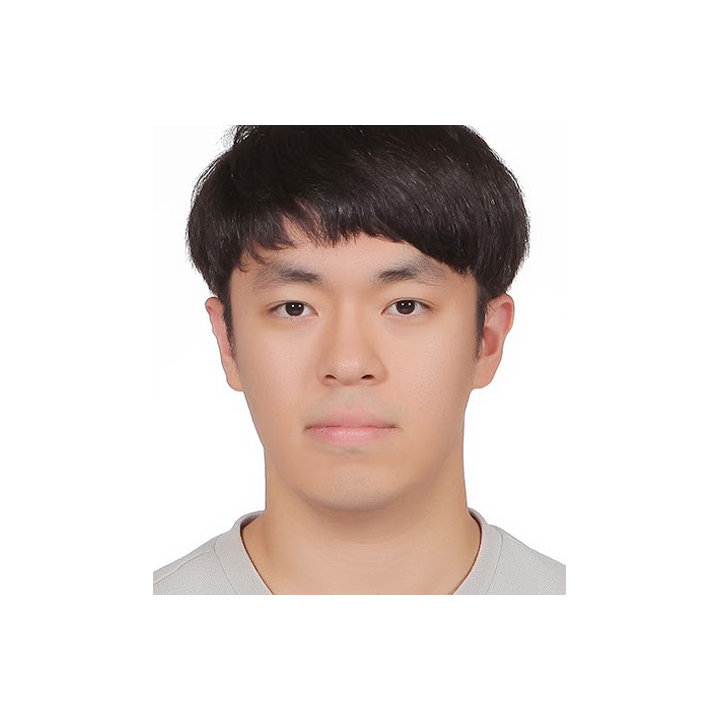
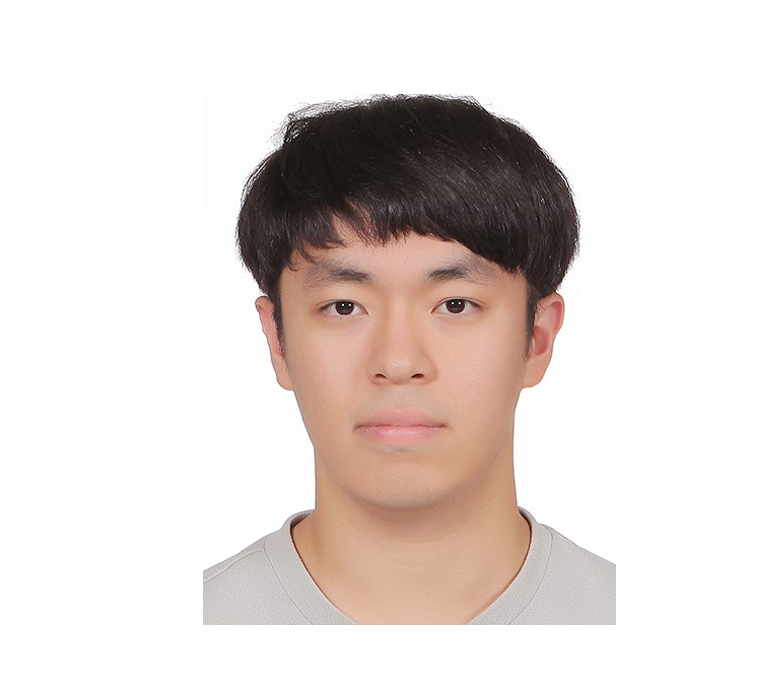
Use owner-provided edited portrait unchanged

Changed region(s): [[0.2139, 0.1209, 0.825, 0.9065], [0.6111, 0.3022, 0.6417, 0.3324], [0.4889, 0.2115, 0.5194, 0.2417]]

diff --git a/_layouts/homepage.html b/_layouts/homepage.html
@@ -47,7 +47,7 @@
       <header>
         
         {% if site.avatar %}
-        <span class="image avatar"><img src="{{ site.avatar }}" alt="Jinhyeok Kim" width="720" height="720" /></span>
+        <span class="image avatar"><img src="{{ site.avatar }}" alt="Jinhyeok Kim" width="770" height="695" /></span>
         {% endif %}
 
         <h1>{{ site.title }}</h1>

diff --git a/README.md b/README.md
@@ -9,8 +9,8 @@ Built from [Minimal Light](https://github.com/yaoyao-liu/minimal-light) by Yaoya
 - `_config.yml`: profile, contact links, theme settings.
 - `index.md`: biography, research interests, news, education, experience.
 - `_data/publications.yml`: publications and Paper / Project / Model / Code links.
-- `assets/portrait.png`: displayed profile photograph, with white padding baked into the image. Replace this file with your next photo (a padded square works best for the theme’s circular crop).
-- `assets/portrait.jpg`: original photograph retained as a backup. The displayed PNG centers the original 413×470 pixels on a 720×720 white canvas without changing the original pixels. There is no custom CSS that shrinks the portrait.
+- `assets/portrait.png`: displayed profile photograph, copied unchanged from the owner-provided `증명사진_edited.png`. Replace this file with your next photo.
+- `assets/portrait.jpg`: previous original photograph retained as a backup. The current PNG has no additional image edits or custom CSS that shrinks the portrait.
 - `assets/css/custom.css`: small overrides; upstream styles remain in `_sass/`.
 
 Push to `main`. GitHub Pages builds Jekyll from the repository root. No custom domain is configured. The footer links to the actual template.
